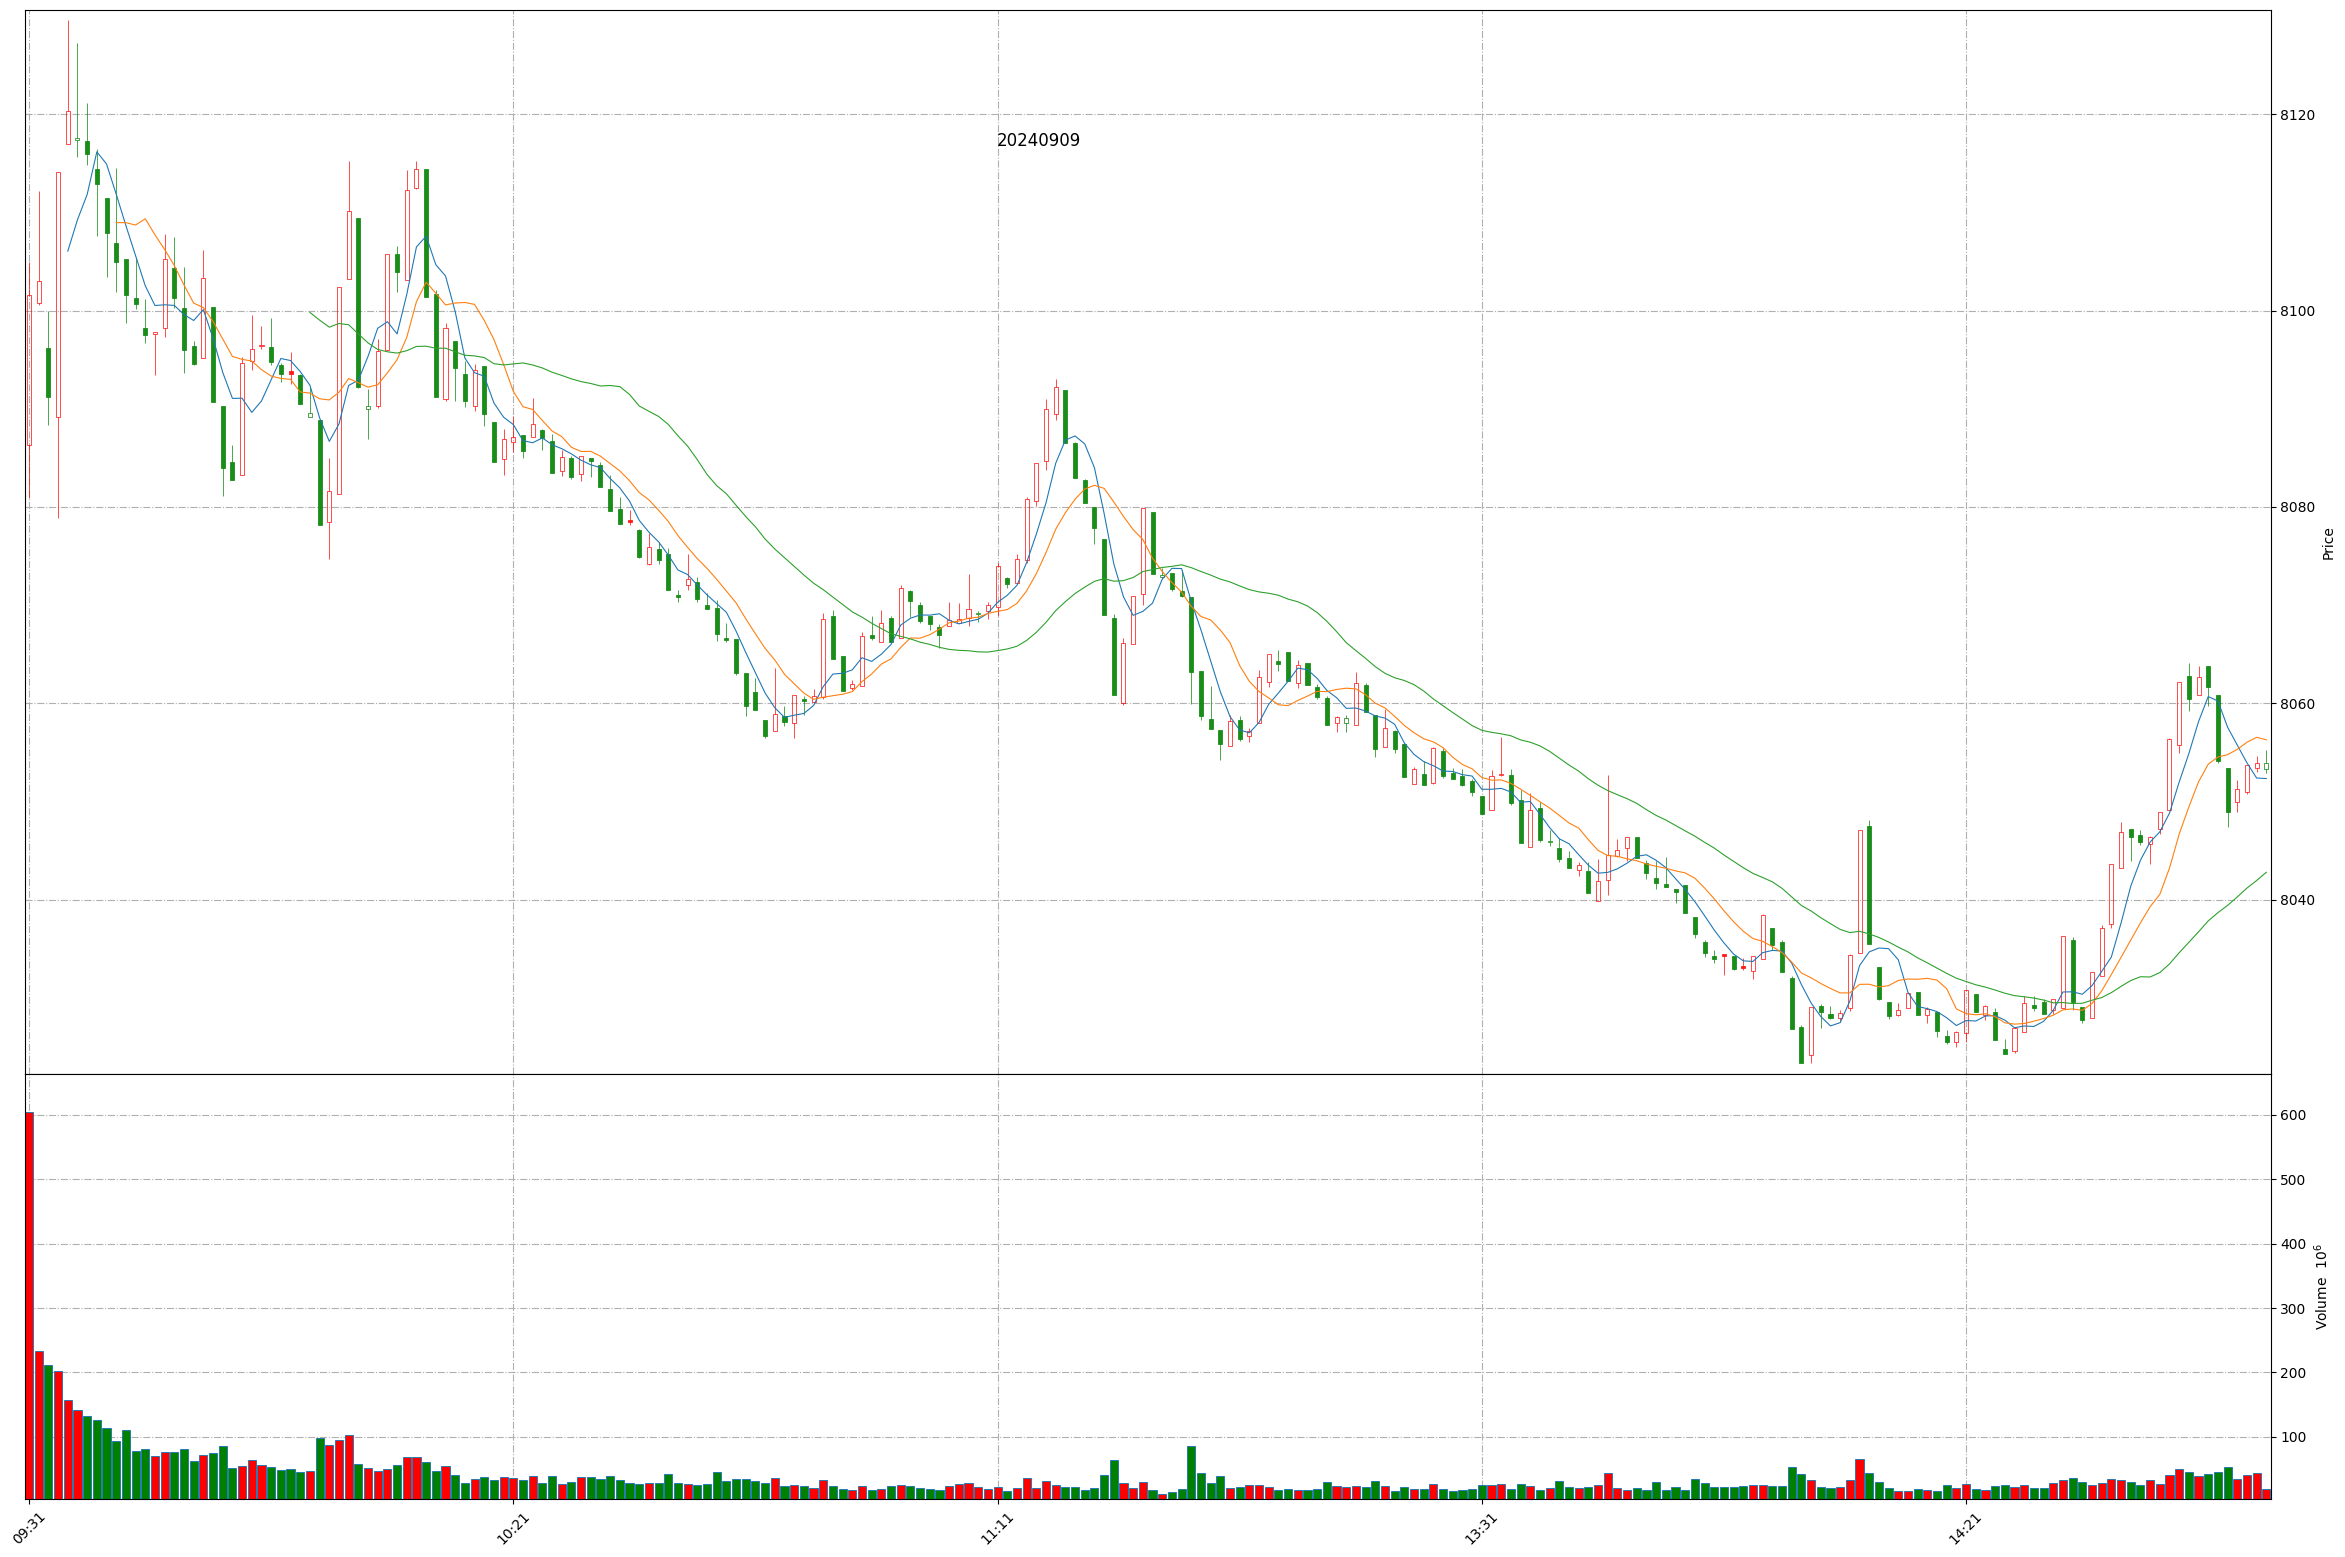
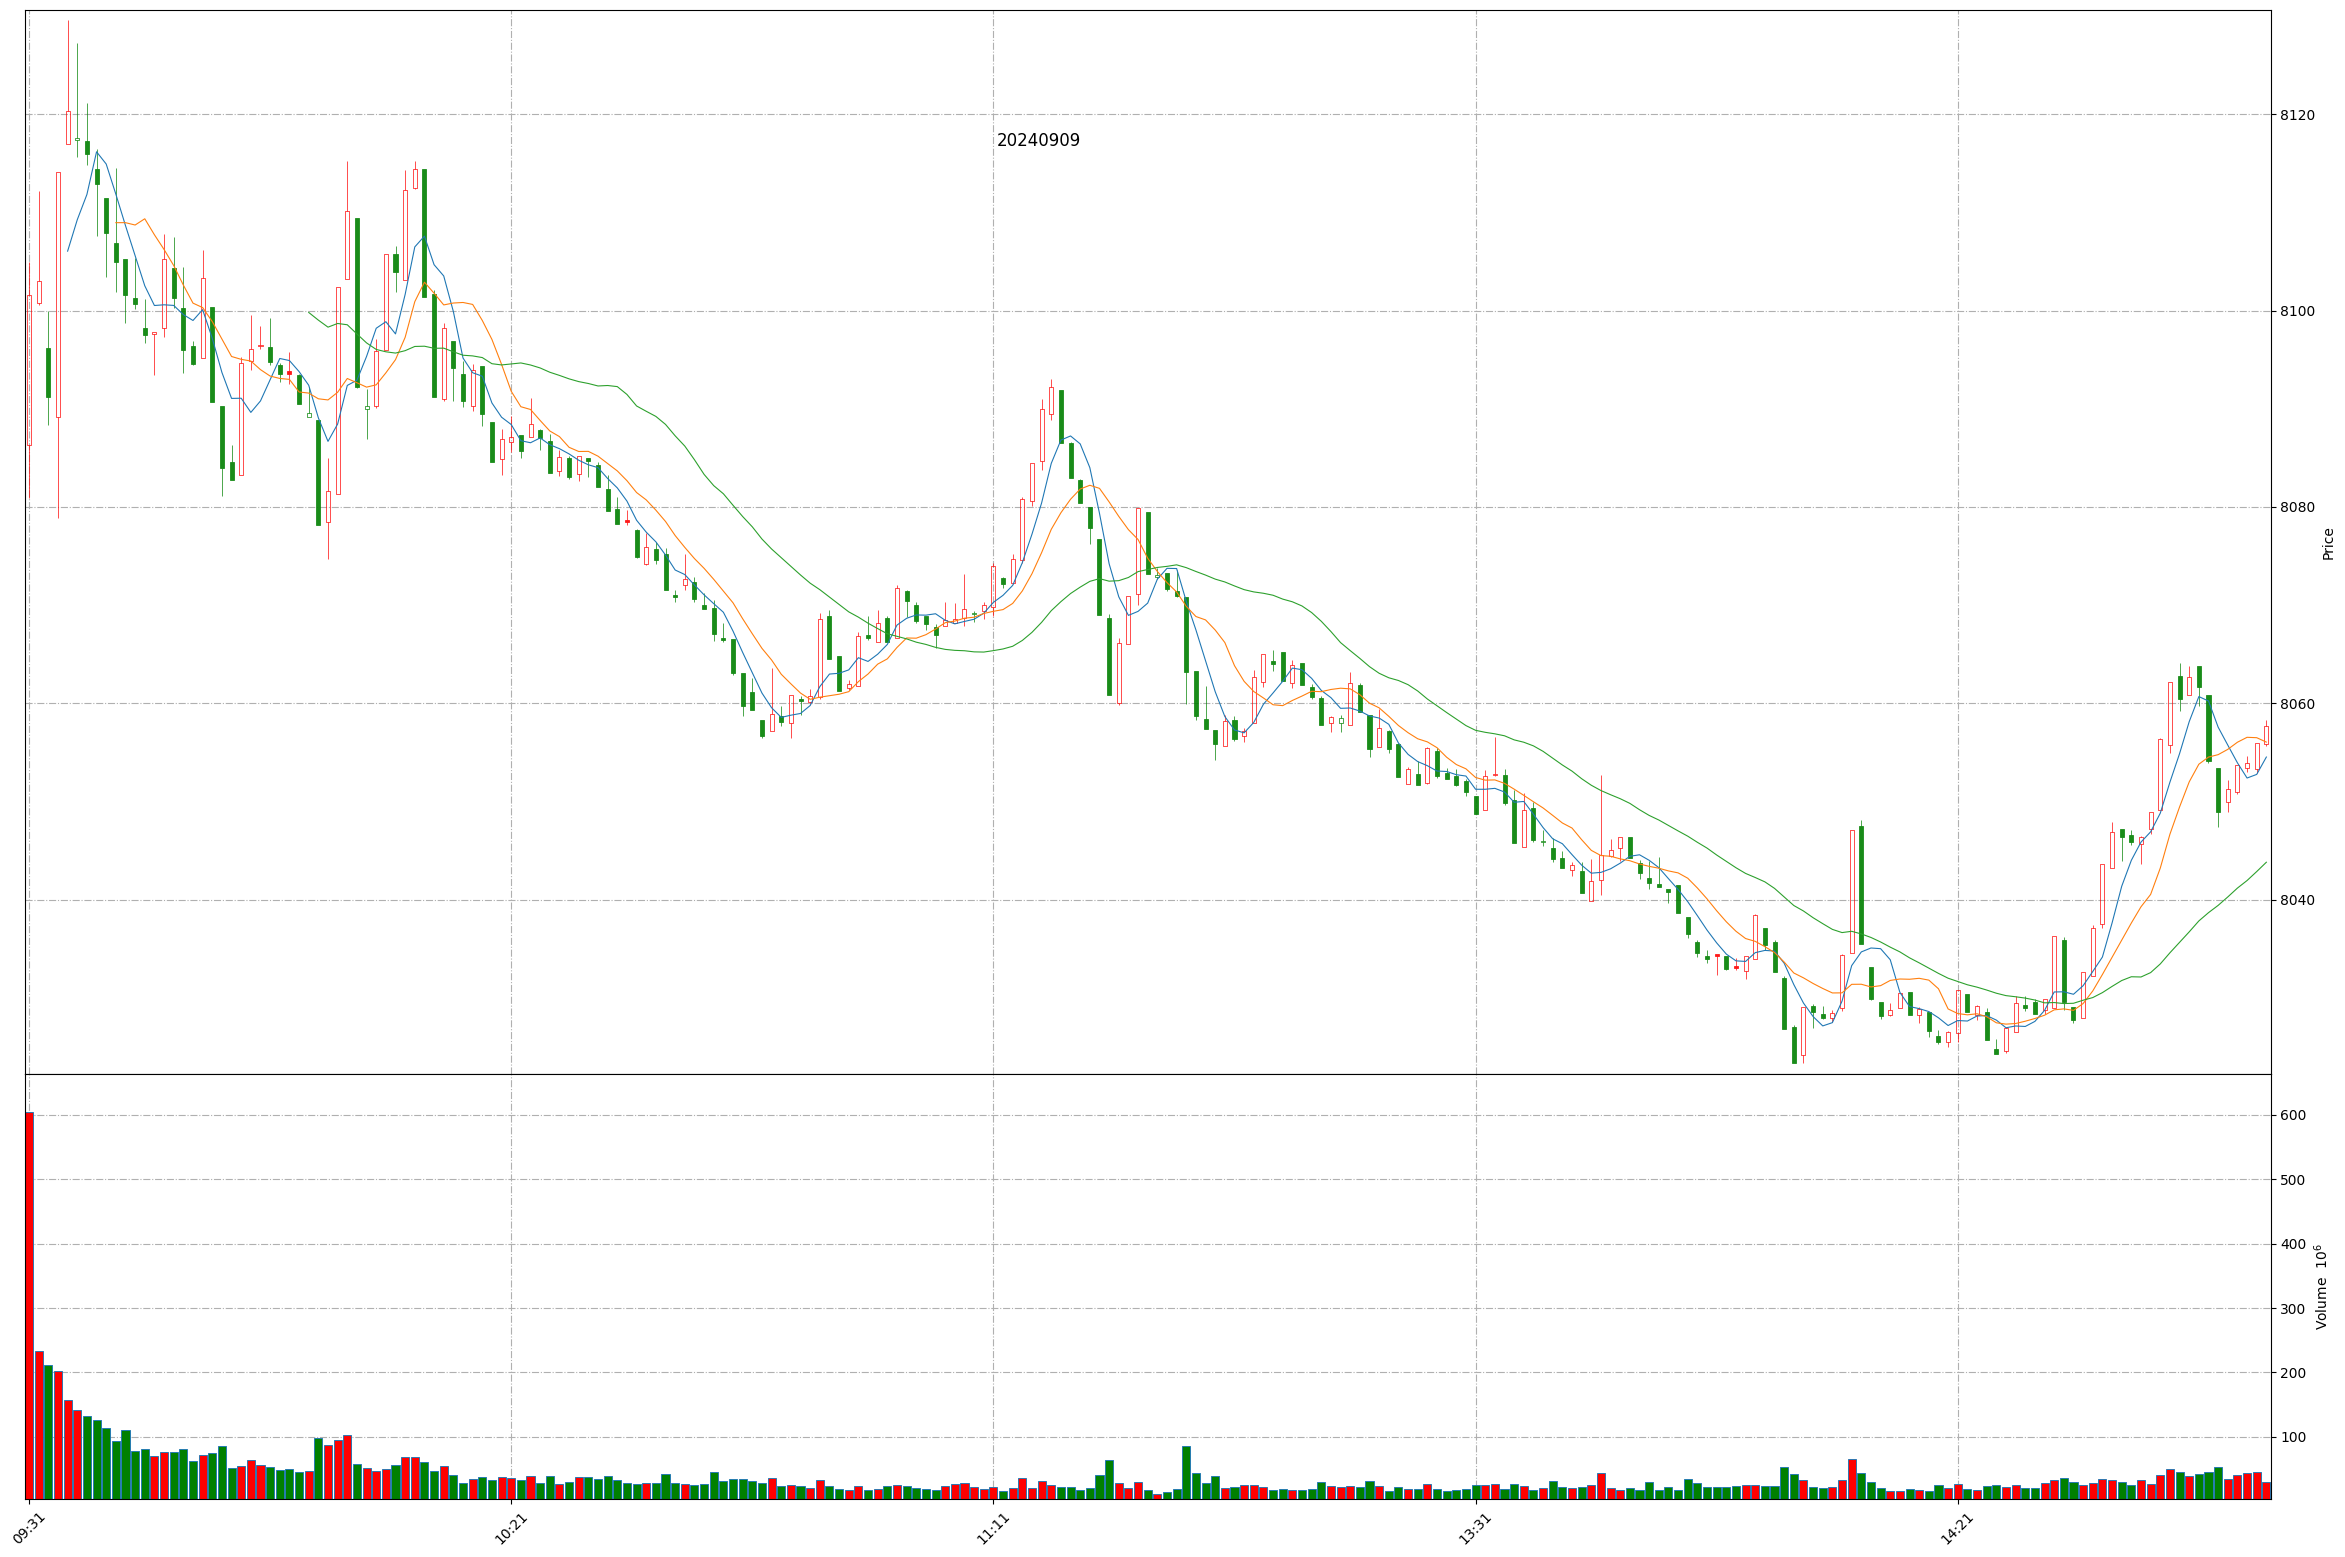
Github action update at 2024-09-09 14:52:51.

diff --git a/README.md b/README.md
@@ -1,11 +1,11 @@
 
 # Daily-A-share-market-quotes 每日 A 股指数（5min 更新）- 20240909
 
-### 上证指数 20240909 14:51
+### 上证指数 20240909 14:52
 ![](./fig/2024/9/20240909-sh000001.png)
 
-### 深证成指 20240909 14:51
+### 深证成指 20240909 14:52
 ![](./fig/2024/9/20240909-sz399001.png)
 
-### 北证50 20240909 14:51
+### 北证50 20240909 14:52
 ![](./fig/2024/9/20240909-bj899050.png)
